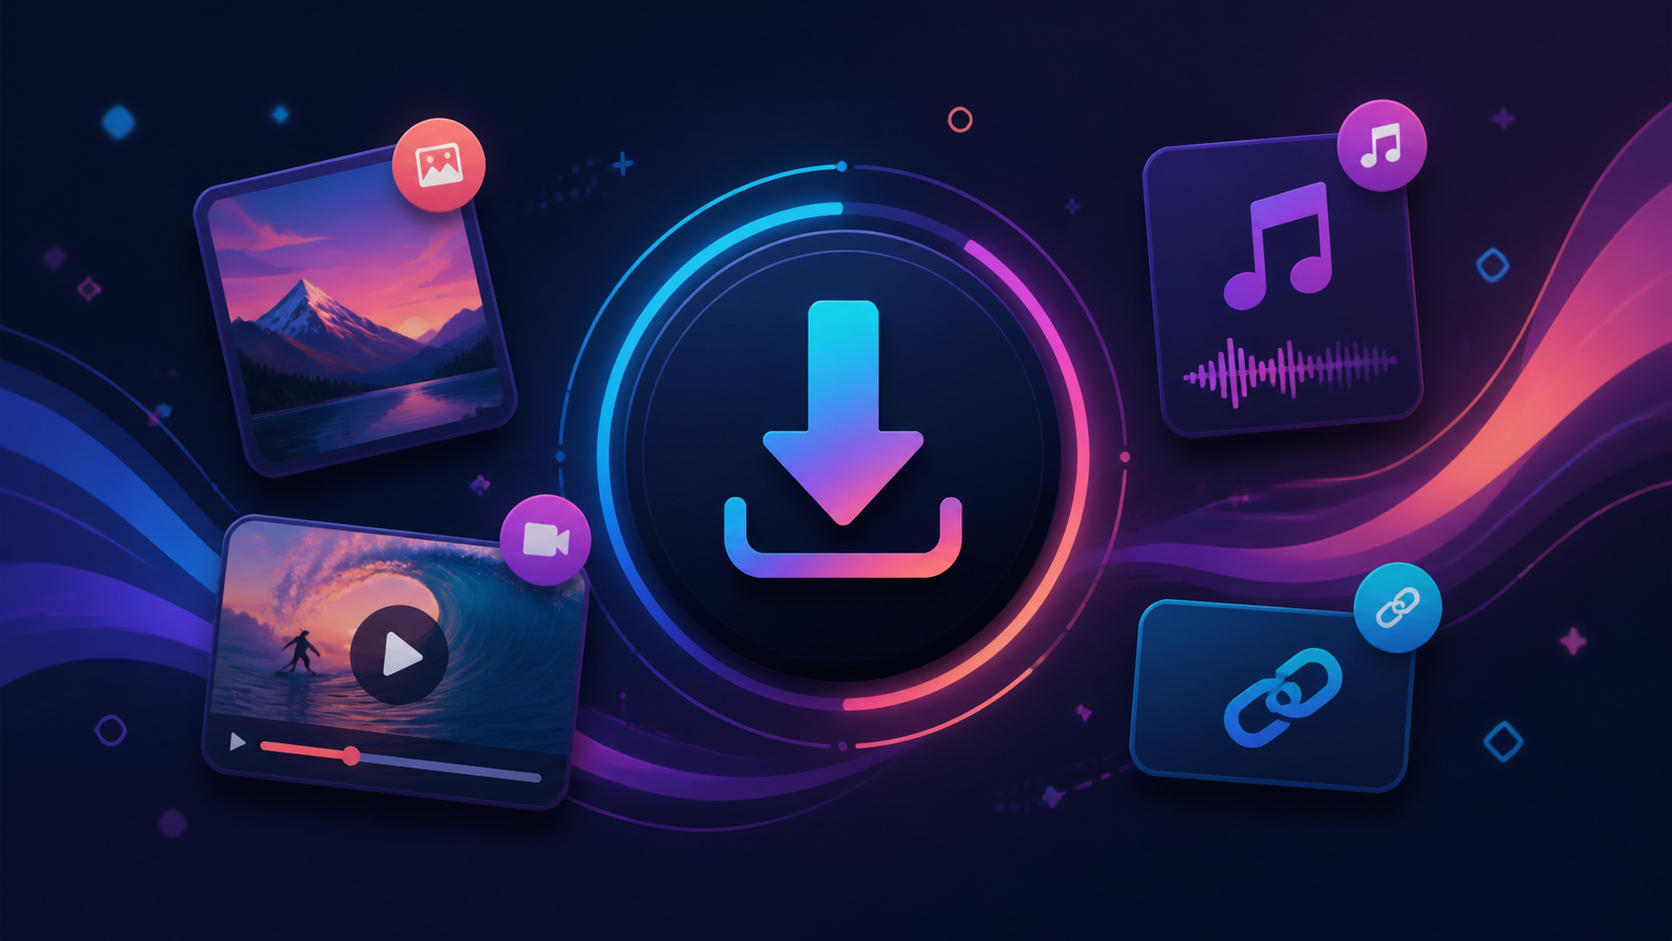
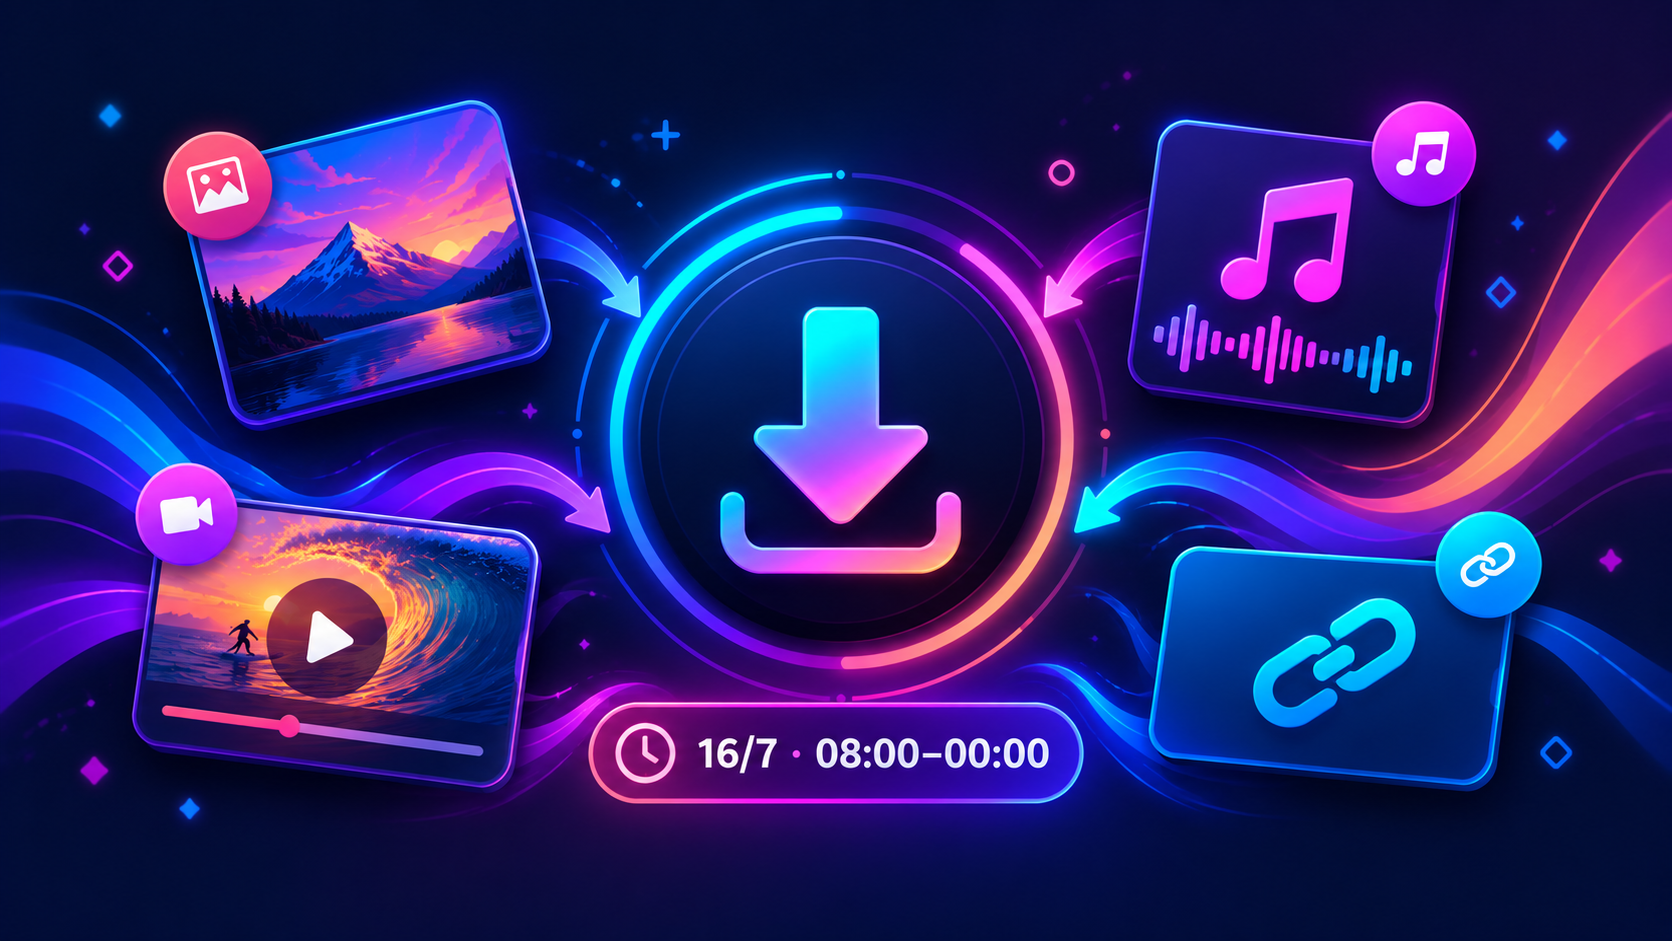
Обновить приветственный баннер и расписание бота
Создан новый стартовый баннер с тематикой загрузки медиа и расписанием 16/7. Приветствие на русском, узбекском и английском поясняет возможности, домашний хостинг, часы работы и ограничения офлайн-доступа.

diff --git a/utils/i18n.py b/utils/i18n.py
@@ -3,7 +3,7 @@ from database.database import get_user_settings
 
 TRANSLATIONS = {
     "ru": {
-        "welcome": "✨ Добро пожаловать в Media Downloader!\n\nСкачивайте видео, фото и музыку из Instagram, YouTube, Pinterest и Facebook.\n\n🔗 Просто отправьте ссылку — я быстро подготовлю файл для вас.\n\n👇 Выберите нужное действие в меню.",
+        "welcome": "✨ Добро пожаловать в Media Downloader!\n\n📥 Instagram, YouTube, Pinterest и Facebook: видео и фото; YouTube — MP3. Просто отправьте ссылку.\n\n🕒 График: ежедневно 08:00–00:00 по Ташкенту (16 часов в день).\n🏠 Бот работает на домашнем компьютере, а не на круглосуточном сервере. Ночью и во время обновлений он недоступен; сообщения, отправленные в это время, бот обработать не сможет.\n\n⚠ Скачивание зависит от доступности публикации и ограничений платформы. Выберите действие в меню ниже.",
         "download": "📥 Скачать",
         "open_app": "📱 Открыть приложение",
         "history": "📜 История",
@@ -71,7 +71,7 @@ TRANSLATIONS = {
         "pinterest_error": "❌ Ошибка при скачивании медиа с Pinterest.",
     },
     "uz": {
-        "welcome": "✨ Media Downloader’ga xush kelibsiz!\n\nInstagram, YouTube, Pinterest va Facebook’dan video, surat hamda musiqa yuklab oling.\n\n🔗 Havolani yuboring — men faylni tezda tayyorlab beraman.\n\n👇 Menyudan kerakli amalni tanlang.",
+        "welcome": "✨ Media Downloader’ga xush kelibsiz!\n\n📥 Instagram, YouTube, Pinterest va Facebook’dan video va suratlar; YouTube’dan MP3 yuklab oling. Havolani yuboring.\n\n🕒 Ish vaqti: har kuni Toshkent vaqti bilan 08:00–00:00 (kuniga 16 soat).\n🏠 Bot doimiy serverda emas, uy kompyuterida ishlaydi. Tunda va yangilanish vaqtida u ishlamaydi; shu vaqtda yuborilgan xabarlarni bot qayta ishlay olmaydi.\n\n⚠ Yuklab olish imkoniyati havola va platforma cheklovlariga bog‘liq. Quyidagi menyudan amalni tanlang.",
         "download": "📥 Yuklab olish", "history": "📜 Tarix", "settings": "⚙ Sozlamalar", "help": "ℹ Yordam", "back": "⬅ Orqaga",
         "open_app": "📱 Ilovani ochish", "choose_service": "📥 Ijtimoiy tarmoqni tanlang.", "unsupported_tiktok": "⚠ TikTok hozir qo‘llab-quvvatlanmaydi. Instagram, YouTube, Pinterest yoki Facebook havolasini yuboring.", "send_service_link": "🔗 {service} havolasini yuboring.", "main_menu": "Bosh menyu.",
         "history_empty": "📜 Tarix bo'sh.", "history_title": "📜 Oxirgi yuklab olishlar:\n\n",
@@ -97,7 +97,7 @@ TRANSLATIONS = {
         "instagram_error": "❌ Instagram dan yuklab olishda xatolik.", "youtube_error": "❌ YouTube videosini yuklab olishda xatolik.", "pinterest_error": "❌ Pinterest mediasini yuklab olishda xatolik.",
     },
     "en": {
-        "welcome": "✨ Welcome to Media Downloader!\n\nDownload videos, photos, and music from Instagram, YouTube, Pinterest, and Facebook.\n\n🔗 Just send a link — I’ll quickly prepare the file for you.\n\n👇 Choose an action from the menu.",
+        "welcome": "✨ Welcome to Media Downloader!\n\n📥 Videos and photos from Instagram, YouTube, Pinterest, and Facebook; MP3 from YouTube. Just send a link.\n\n🕒 Schedule: daily, 08:00–00:00 Tashkent time (16 hours a day).\n🏠 The bot runs on a home computer, not a 24/7 server. It is unavailable overnight and during updates; messages sent while it is offline cannot be processed.\n\n⚠ Downloads depend on link availability and platform restrictions. Choose an action from the menu below.",
         "download": "📥 Download", "open_app": "📱 Open app", "history": "📜 History", "settings": "⚙ Settings", "help": "ℹ Help", "back": "⬅ Back",
         "choose_service": "📥 Choose a social network.", "unsupported_tiktok": "⚠ TikTok is currently unsupported. Send a link from Instagram, YouTube, Pinterest, or Facebook.", "send_service_link": "🔗 Send a {service} link.", "main_menu": "Main menu.",
         "history_empty": "📜 History is empty.", "history_title": "📜 Recent downloads:\n\n",

diff --git a/tests/test_welcome_information.py b/tests/test_welcome_information.py
@@ -1,0 +1,23 @@
+import unittest
+from pathlib import Path
+
+from utils.i18n import TRANSLATIONS
+
+
+class WelcomeInformationTests(unittest.TestCase):
+    def test_welcome_explains_hours_home_hosting_and_limits_in_all_languages(self):
+        for language in ("ru", "uz", "en"):
+            with self.subTest(language=language):
+                text = TRANSLATIONS[language]["welcome"]
+                self.assertIn("08:00–00:00", text)
+                self.assertIn("16", text)
+                self.assertNotIn("TikTok", text)
+
+    def test_start_banner_asset_is_present_and_reasonably_sized(self):
+        banner = Path(__file__).resolve().parents[1] / "assets" / "welcome_banner.png"
+        self.assertTrue(banner.is_file())
+        self.assertLess(banner.stat().st_size, 10 * 1024 * 1024)
+
+
+if __name__ == "__main__":
+    unittest.main()
